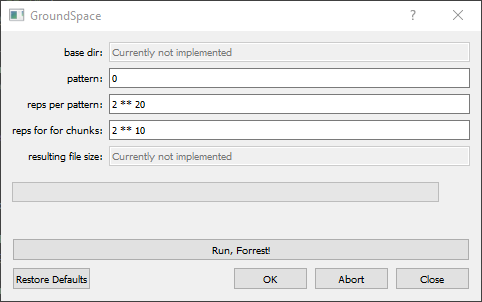
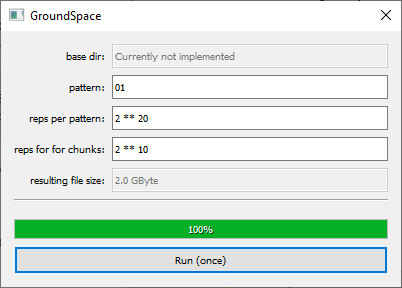
GroundSpace: fixed cause for the crash while entering numbers which result in big filesizes; updated the screenshot

diff --git a/GroundSpace/groundSpace.py b/GroundSpace/groundSpace.py
@@ -99,10 +99,10 @@ class GroundSpaceGUI(QDialog):
         prefixes = ['', 'K', 'M', 'G', 'T'] # what if bigger?
         numberOfOrder = 0
         while number > 1024:
+            if numberOfOrder == len(prefixes) - 1:
+                break
             number /= 1024
             numberOfOrder += 1
-            if numberOfOrder == len(prefixes):
-                break
 
         prefixToUse = prefixes[numberOfOrder]
 
